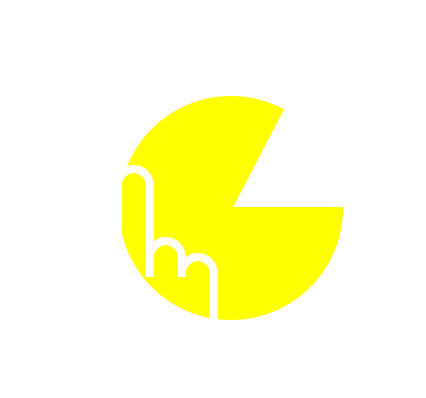
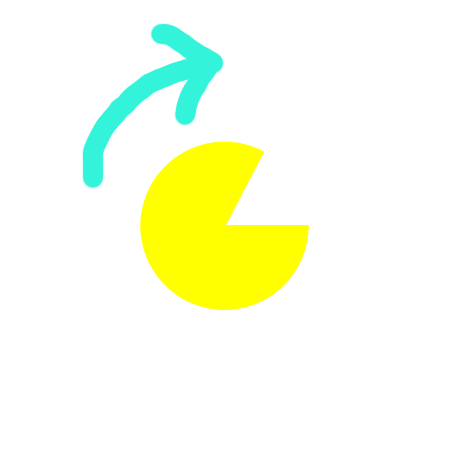
Clearer intro help animation, colors for scores

Changed region(s): [[0.1831, 0.0302, 0.8239, 0.8141]]

diff --git a/Pizza Slice/GameScene.swift b/Pizza Slice/GameScene.swift
@@ -12,27 +12,24 @@ import AVFoundation
 class GameScene: SKScene, UIGestureRecognizerDelegate {
 
     var pacMan:SKShapeNode!
-    var planes:NSMutableArray = []
-    var nextPlaneLaunch:CFTimeInterval = 0
-    var direction = 0
+    var howto:SKSpriteNode!
+    var scoreLabel = SKLabelNode(fontNamed: "American Typewriter")
+    var maxScoreLabel = SKLabelNode(fontNamed: "American Typewriter")
+    var gameOverLabel = SKLabelNode(fontNamed: "American Typewriter")
     
-    var viewRadius:CGFloat!
-    var pacManRadius:CGFloat!
-    let pacManArc = M_PI * 0.4
-
     var eatSound = SKAction.playSoundFileNamed("eat.caf", waitForCompletion: false)
     var cwSound = SKAction.playSoundFileNamed("cw.caf", waitForCompletion: false)
     var ccwSound = SKAction.playSoundFileNamed("ccw.caf", waitForCompletion: false)
     var dieSound = SKAction.playSoundFileNamed("die.caf", waitForCompletion: false)
     
-    var scoreLabel:SKLabelNode = SKLabelNode(fontNamed: "American Typewriter")
-    var maxScoreLabel:SKLabelNode = SKLabelNode(fontNamed: "American Typewriter")
-    var gameOverLabel = SKLabelNode()
+    var viewRadius:CGFloat!
+    var pacManRadius:CGFloat!
+    let pacManArc = M_PI * 0.4
     var score:Int = 0
+    var direction = 0
     var gameOver = false
     var readyToStartNewGame = true
-    
-    var howto:SKSpriteNode!
+    var nextPlaneLaunch:CFTimeInterval = 0
     
     func handleRotate(recognizer : UIRotationGestureRecognizer) {
         if readyToStartNewGame {
@@ -60,18 +57,21 @@ class GameScene: SKScene, UIGestureRecognizerDelegate {
         self.viewRadius = hypot(view.frame.width, view.frame.height)
         self.pacManRadius = self.viewRadius * 0.05
         
-        var background:SKSpriteNode = SKSpriteNode(imageNamed: "background.jpg")
+        var background = SKSpriteNode(imageNamed: "background.jpg")
         background.position = CGPointMake(CGRectGetMidX(self.frame), CGRectGetMidY(self.frame))
         background.name = "background"
         background.xScale = 2.0
         background.yScale = 2.0
         self.addChild(background)
-
+        
         self.howto = SKSpriteNode(imageNamed: "howto")
         self.howto.position = CGPointMake(CGRectGetMidX(self.frame), CGRectGetMidY(self.frame))
         self.howto.size = CGSizeMake(self.viewRadius * 0.2, self.viewRadius * 0.2)
-        let action = SKAction.animateWithTextures([SKTexture(imageNamed: "howto"), SKTexture(imageNamed: "howto2")], timePerFrame: 0.4)
-        self.howto.runAction(SKAction.repeatActionForever(action))
+        var actions = NSMutableArray()
+        actions.addObject(SKAction.rotateByAngle(CGFloat(-M_PI_2), duration: 0.5))
+        actions.addObject(SKAction.waitForDuration(0.4))
+        actions.addObject(SKAction.rotateByAngle(CGFloat(+M_PI_2), duration: 0))
+        self.howto.runAction(SKAction.repeatActionForever(SKAction.sequence(actions)))
         self.addChild(self.howto)
         
         self.scoreLabel.text = "Score : 0"
@@ -81,21 +81,20 @@ class GameScene: SKScene, UIGestureRecognizerDelegate {
         self.scoreLabel.horizontalAlignmentMode = SKLabelHorizontalAlignmentMode.Center
         self.scoreLabel.position = CGPointMake(CGRectGetMidX(self.frame), self.frame.size.height - scoreLabel.frame.height * 2)
         self.addChild(scoreLabel)
-        self.maxScoreLabel.text = "Max Score : 0"
+        
+        self.maxScoreLabel.text = "High Score : 0"
         self.maxScoreLabel.name = "maxScoreLabel"
         self.maxScoreLabel.fontSize = UIDevice.currentDevice().userInterfaceIdiom == .Pad ? 60 : 30
         self.maxScoreLabel.zPosition = 10
         self.maxScoreLabel.horizontalAlignmentMode = SKLabelHorizontalAlignmentMode.Center
         self.maxScoreLabel.position = CGPointMake(CGRectGetMidX(self.frame), self.frame.size.height - scoreLabel.frame.height * 3)
-    }
-    
-    func startGame() {
-        self.howto.removeFromParent()
-        self.gameOverLabel.removeFromParent()
-        self.maxScoreLabel.removeFromParent()
-        self.score = 0
-        self.scoreLabel.text = "Score : \(self.score)"
-
+        
+        self.gameOverLabel.text = "GAME OVER"
+        self.gameOverLabel.name = "scoreLabel"
+        self.gameOverLabel.fontSize = UIDevice.currentDevice().userInterfaceIdiom == .Pad ? 60 : 30
+        self.gameOverLabel.zPosition = 9999999
+        self.gameOverLabel.horizontalAlignmentMode = SKLabelHorizontalAlignmentMode.Center
+        self.gameOverLabel.position = CGPointMake(CGRectGetMidX(self.frame), CGRectGetMidY(self.frame) - gameOverLabel.frame.height * 3)
         
         var path = CGPathCreateMutable()
         CGPathMoveToPoint(path, nil, 0, 0)
@@ -105,57 +104,48 @@ class GameScene: SKScene, UIGestureRecognizerDelegate {
         self.pacMan.strokeColor = SKColor.clearColor()
         self.pacMan.zPosition = 9999999
         self.pacMan.position = CGPointMake(CGRectGetMidX(self.frame), CGRectGetMidY(self.frame))
+    }
+    
+    func startGame() {
+        self.howto.removeFromParent()
+        self.gameOverLabel.removeFromParent()
+        self.maxScoreLabel.removeFromParent()
+        self.pacMan.zRotation = 0
         self.addChild(self.pacMan)
-        
+        self.score = 0
+        self.scoreLabel.text = "Score : \(self.score)"
+        self.scoreLabel.fontColor = self.colorForScore(self.score)
         self.readyToStartNewGame = false
         self.gameOver = false
     }
     
     func gameOver(attackingPiece: SKNode) {
         self.gameOver = true
-        
-        for plane in self.planes {
-            plane.removeFromParent()
-        }
-        self.planes.removeAllObjects()
         self.runAction(self.dieSound)
+
+        self.enumerateChildNodesWithName("plane", usingBlock: { (plane:SKNode!, x) -> Void in
+            plane.removeFromParent()
+        })
         
         var maxScore = self.score
         if let savedMaxScore = NSUserDefaults.standardUserDefaults().objectForKey("maxScore") as? NSNumber {
             maxScore = max(self.score, savedMaxScore)
         }
         NSUserDefaults.standardUserDefaults().setInteger(maxScore, forKey: "maxScore")
-        self.maxScoreLabel.text = "Max Score : \(maxScore)"
+        self.maxScoreLabel.text = "High Score : \(maxScore)"
+        self.maxScoreLabel.fontColor = self.colorForScore(maxScore)
         self.addChild(self.maxScoreLabel)
-        
-        gameOverLabel = SKLabelNode(fontNamed: "American Typewriter")
-        gameOverLabel.text = "GAME OVER"
-        gameOverLabel.name = "scoreLabel"
-        gameOverLabel.fontSize = UIDevice.currentDevice().userInterfaceIdiom == .Pad ? 60 : 30
-        gameOverLabel.zPosition = 9999999
-        gameOverLabel.horizontalAlignmentMode = SKLabelHorizontalAlignmentMode.Center
-        gameOverLabel.position = CGPointMake(CGRectGetMidX(self.frame), CGRectGetMidY(self.frame) - gameOverLabel.frame.height * 3)
-        self.addChild(gameOverLabel)
-        
-        
+        self.addChild(self.gameOverLabel)
         
         var wait = SKAction.waitForDuration(1.5)
         var setReady = SKAction.runBlock {
             self.pacMan.removeFromParent()
-            
-            self.howto = SKSpriteNode(imageNamed: "howto")
-            self.howto.position = CGPointMake(CGRectGetMidX(self.frame), CGRectGetMidY(self.frame))
-            self.howto.size = CGSizeMake(self.viewRadius * 0.2, self.viewRadius * 0.2)
-            let action = SKAction.animateWithTextures([SKTexture(imageNamed: "howto"), SKTexture(imageNamed: "howto2")], timePerFrame: 0.4)
-            self.howto.runAction(SKAction.repeatActionForever(action))
             self.addChild(self.howto)
-
             self.readyToStartNewGame = true
         }
         self.runAction(SKAction.sequence([wait, setReady]))
     }
     
-
     /* Called before each frame is rendered */
     override func update(currentTime: CFTimeInterval) {
         if gameOver {return}
@@ -169,18 +159,17 @@ class GameScene: SKScene, UIGestureRecognizerDelegate {
     
     func launchNewPlane() {
         let angle:CGFloat = CGFloat(Double(arc4random()) / 0x100000000 * 2 * M_PI)
-        let middlePoint = CGPointMake(CGRectGetMidX(self.frame), CGRectGetMidY(self.frame))
         let startPoint = CGPointMake(self.viewRadius * cos(angle) + CGRectGetMidX(self.frame),
                                      self.viewRadius * sin(angle) + CGRectGetMidY(self.frame))
         let collisionPoint = CGPointMake(self.pacManRadius * cos(angle) + CGRectGetMidX(self.frame),
                                          self.pacManRadius * sin(angle) + CGRectGetMidY(self.frame))
+        let middlePoint = CGPointMake(CGRectGetMidX(self.frame), CGRectGetMidY(self.frame))
         
         var plane:SKSpriteNode = SKSpriteNode(imageNamed: "plane")
         plane.position = startPoint
-        plane.name = "background"
+        plane.name = "plane"
         plane.size = CGSizeMake(self.viewRadius * 0.03, self.viewRadius * 0.03)
         self.addChild(plane)
-        self.planes.addObject(plane)
         
         var approachPacMac = SKAction.moveTo(collisionPoint, duration: 5)
         approachPacMac.timingMode = SKActionTimingMode.EaseIn
@@ -191,20 +180,10 @@ class GameScene: SKScene, UIGestureRecognizerDelegate {
                 self.scoreLabel.text = "Score : \(self.score)"
                 self.runAction(self.eatSound)
                 
-                if (self.score == 10) {
-                    self.pacMan.fillColor = SKColor.orangeColor()
-                } else if (self.score == 20) {
-                    self.pacMan.fillColor = SKColor.redColor()
-                } else if (self.score == 30) {
-                    self.pacMan.fillColor = SKColor.purpleColor()
-                } else if (self.score == 40) {
-                    self.pacMan.fillColor = SKColor.greenColor()
-                } else if (self.score == 50) {
-                    self.pacMan.fillColor = SKColor.blueColor()
-                } else if (self.score % 10 == 0) {
-                    self.pacMan.fillColor = UIColor(hue: CGFloat(self.score), saturation: 1, brightness: 1, alpha: 1)
+                if self.score % 10 == 0 {
+                    self.pacMan.fillColor = self.colorForScore(self.score)
+                    self.scoreLabel.fontColor = self.colorForScore(self.score)
                 }
-                
             } else {
                 self.gameOver(plane)
             }
@@ -215,12 +194,30 @@ class GameScene: SKScene, UIGestureRecognizerDelegate {
         
         var deleteNode:SKAction = SKAction.runBlock {
             plane.removeFromParent()
-            self.planes.removeObject(plane)
         }
 
         var sequence:SKAction = SKAction.sequence([approachPacMac, checkCollision, approachCenter, deleteNode])
         plane.runAction(sequence)
     }
-
+    
+    func colorForScore(score:Int) -> SKColor {
+        switch score {
+        case 0...9:
+            return SKColor.whiteColor()
+        case 10...19:
+            return SKColor.orangeColor()
+        case 20...29:
+            return SKColor.redColor()
+        case 30...39:
+            return SKColor.purpleColor()
+        case 40...49:
+            return SKColor.greenColor()
+        case 50...59:
+            return SKColor.blueColor()
+        default:
+            let tens = Int(score / 10)
+            return UIColor(hue: CGFloat(tens), saturation: 1, brightness: 1, alpha: 1)
+        }
+    }
 
 }

diff --git a/Pizza Slice/GameViewController.swift b/Pizza Slice/GameViewController.swift
@@ -28,8 +28,8 @@ class GameViewController: UIViewController, ADBannerViewDelegate {
         
         let scene = GameScene(size: self.view.frame.size)
         let skView = self.view as SKView
-        skView.showsFPS = true
-        skView.showsNodeCount = true
+        //skView.showsFPS = true
+        //skView.showsNodeCount = true
         //scene.scaleMode = .AspectFill
         self.rotater.addTarget(scene, action: "handleRotate:")
         self.view.addGestureRecognizer(self.rotater)
